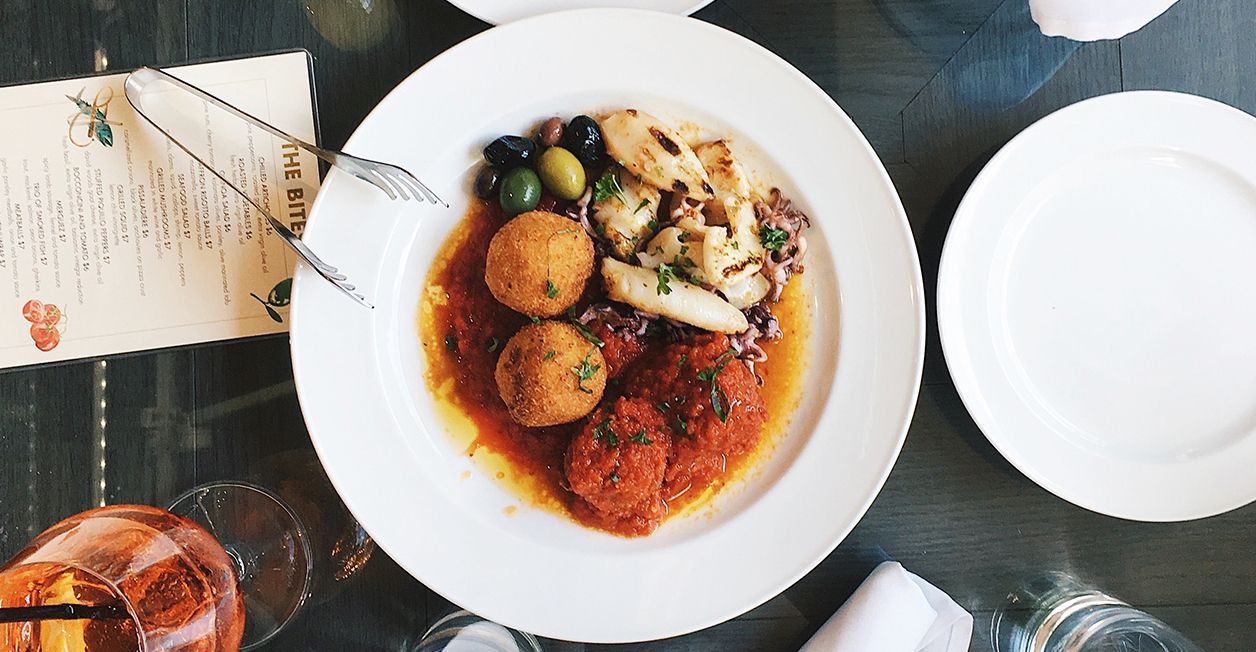
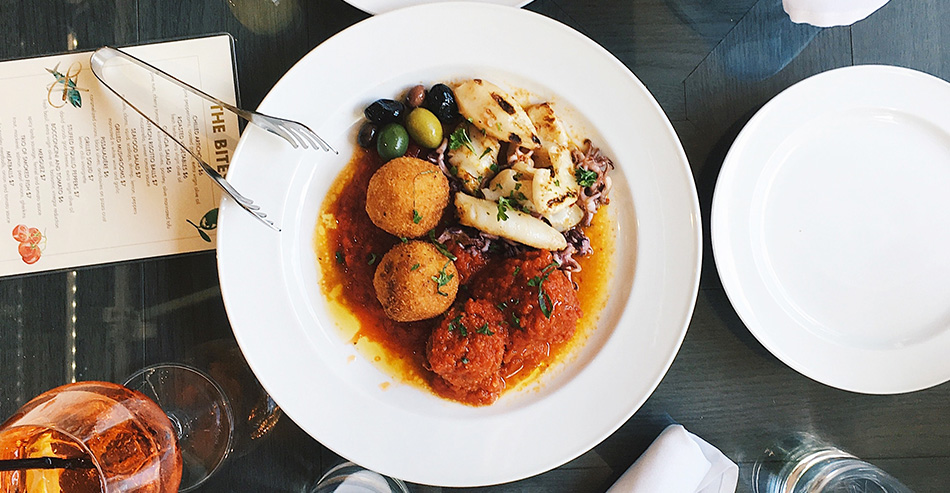
02/12/21
Opti photos

diff --git a/menu_la_palette_du_gout.html b/menu_la_palette_du_gout.html
@@ -29,7 +29,7 @@
         </a>
     </header>
     <div class="image_pres">
-        <img src="images/menus/la_palette_du_gout_menu.jpg" alt="La palette du goût">
+        <img src="iimages/menus/menu_la_palette_du_gout.jpg" alt="La palette du goût">
     </div>
     <div class="entrees">
         <div class="block_titre_menu">

diff --git a/menu_le_delice_des_sens.html b/menu_le_delice_des_sens.html
@@ -29,7 +29,7 @@
         </a>
     </header>
     <div class="image_pres">
-        <img src="images/menus/le_delice_des_sens_menu.jpg" alt="Le délice des sens">
+        <img src="images/menus/menu_le_delice_des sens.jpg" alt="Le délice des sens">
     </div>
     <div class="entrees">
         <div class="block_titre_menu">

diff --git a/menu_la_note_enchantee.html b/menu_la_note_enchantee.html
@@ -29,7 +29,7 @@
         </a>
     </header>
     <div class="image_pres">
-        <img src="images/menus/la_note_enchantee_menu.jpg" alt="La note enchantée">
+        <img src="images/menus/menu_la_note_enchantee.jpg" alt="La note enchantée">
     </div>
     <div class="entrees">
         <div class="block_titre_menu">

diff --git a/menu_a_la_francaise.html b/menu_a_la_francaise.html
@@ -29,7 +29,7 @@
         </a>
     </header>
     <div class="image_pres">
-        <img src="images/menus/a_la_francaise_menu.jpg" alt="A la francaise">
+        <img src="images/menus/menu_a_la_francaise.jpg" alt="A la francaise">
     </div>
     <div class="entrees">
         <div class="block_titre_menu">
